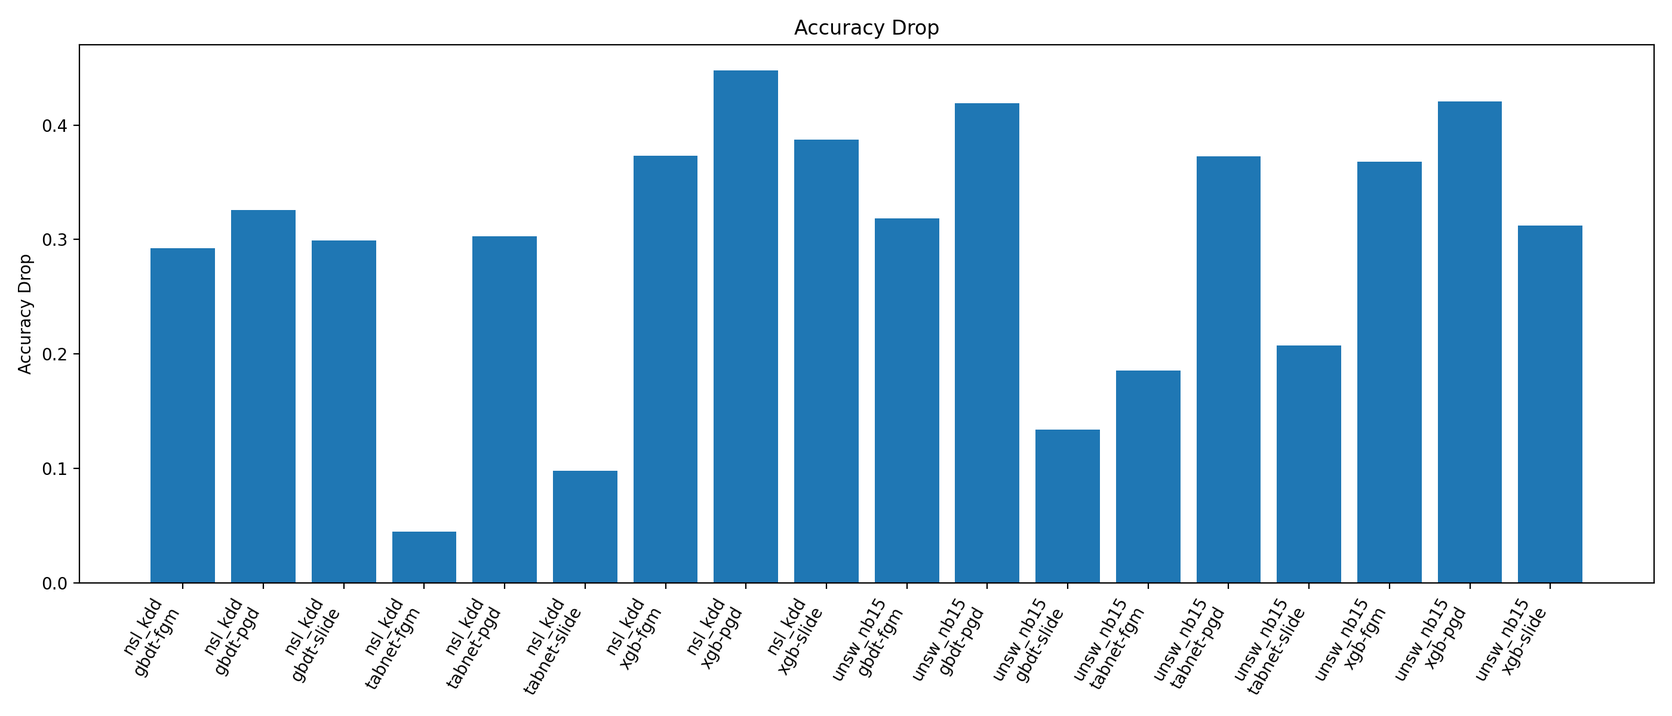
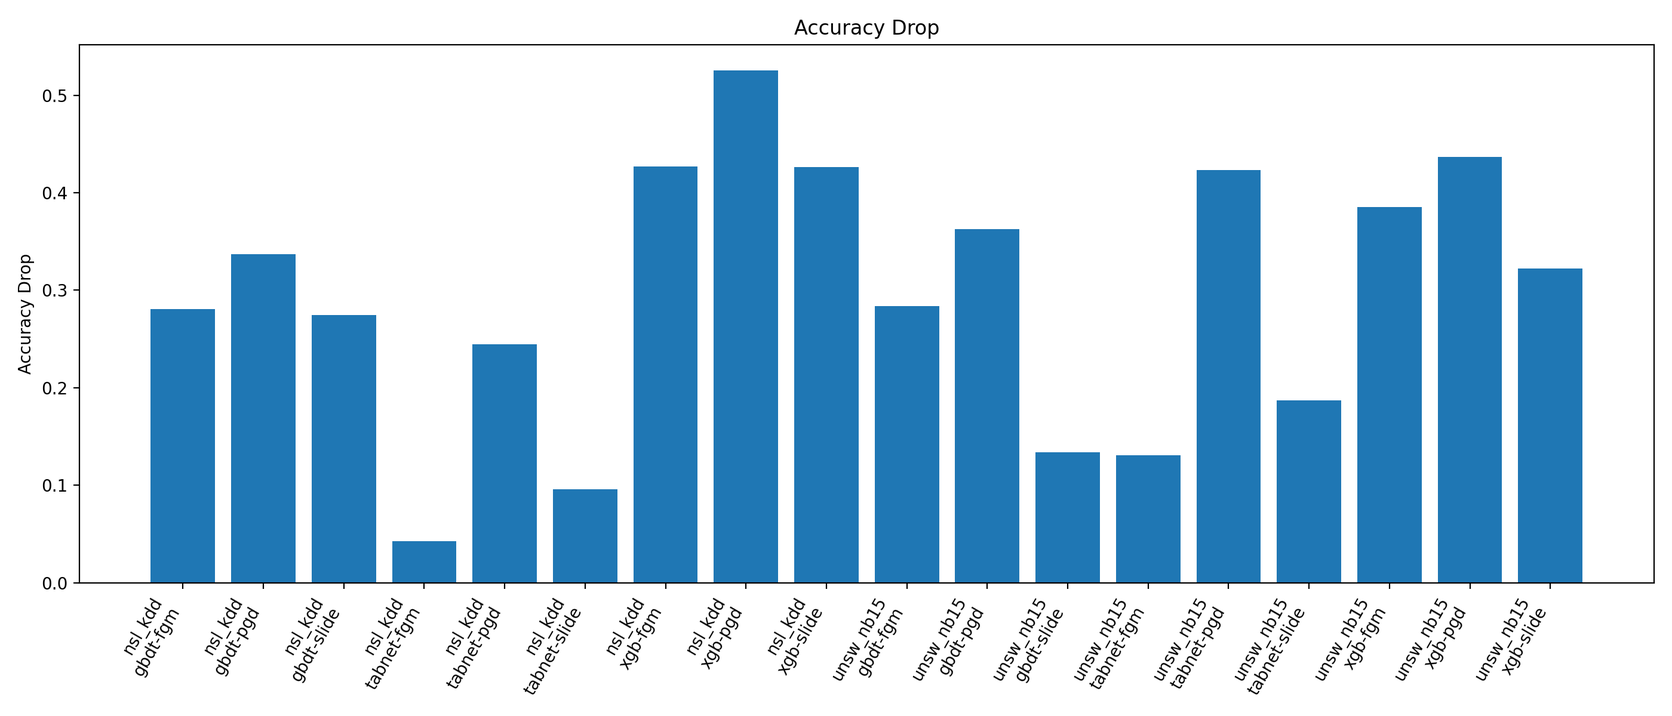
更新

diff --git a/results/summary/all_transfer_matrix.md b/results/summary/all_transfer_matrix.md
@@ -1,20 +1,20 @@
 | dataset   | target_model   | attack   |   num_samples |   num_clean_correct |   clean_accuracy |   adversarial_accuracy |   accuracy_drop |   clean_macro_f1 |   adversarial_macro_f1 |   macro_f1_drop |   transfer_success_rate |   transfer_success_count |   legacy_misclassification_rate |   legacy_misclassification_count |   mean_l2_perturbation |   median_l2_perturbation |   max_l2_perturbation |   mean_linf_perturbation |   max_linf_perturbation |   l2_q0.99 |   linf_q0.99 |   l2_q0.999 |   linf_q0.999 |   num_linf_gt_1 |   num_l2_gt_5 | metric_file                                  |
 |:----------|:---------------|:---------|--------------:|--------------------:|-----------------:|-----------------------:|----------------:|-----------------:|-----------------------:|----------------:|------------------------:|-------------------------:|--------------------------------:|---------------------------------:|-----------------------:|-------------------------:|----------------------:|-------------------------:|------------------------:|-----------:|-------------:|------------:|--------------:|----------------:|--------------:|:---------------------------------------------|
-| nsl_kdd   | gbdt           | fgm      |          3382 |                3336 |         0.986399 |               0.693968 |       0.292431  |         0.966805 |               0.526988 |        0.439817 |               0.298261  |                      995 |                       0.306032  |                             1035 |               0.390942 |                 0.387267 |               82.7173 |                 0.18835  |                 82.2645 |   0.435048 |     0.236967 |    0.451131 |      0.350213 |               1 |             1 | transfer_fgm_nsl_kdd_gbdt_metrics.json       |
-| nsl_kdd   | gbdt           | pgd      |          3382 |                3336 |         0.986399 |               0.660556 |       0.325843  |         0.966805 |               0.514204 |        0.452601 |               0.333333  |                     1112 |                       0.339444  |                             1148 |               0.753279 |                 0.761431 |               82.7164 |                 0.361946 |                 82.2645 |   0.862316 |     0.497257 |    0.891039 |      0.5      |               1 |             1 | transfer_pgd_nsl_kdd_gbdt_metrics.json       |
-| nsl_kdd   | gbdt           | slide    |          3382 |                3336 |         0.986399 |               0.687167 |       0.299231  |         0.966805 |               0.551468 |        0.415338 |               0.306655  |                     1023 |                       0.312833  |                             1058 |               0.520443 |                 0.496879 |               82.7163 |                 0.253478 |                 82.2645 |   0.498659 |     0.322975 |    0.499039 |      0.407964 |               1 |             1 | transfer_slide_nsl_kdd_gbdt_metrics.json     |
-| nsl_kdd   | tabnet         | fgm      |          3382 |                3298 |         0.975163 |               0.930514 |       0.0446481 |         0.953497 |               0.844231 |        0.109265 |               0.0460885 |                      152 |                       0.0694855 |                              235 |               0.392394 |                 0.375273 |               82.7172 |                 0.177333 |                 82.2645 |   0.445695 |     0.228557 |    0.461727 |      0.231415 |               1 |             1 | transfer_fgm_nsl_kdd_tabnet_metrics.json     |
-| nsl_kdd   | tabnet         | pgd      |          3382 |                3298 |         0.975163 |               0.672383 |       0.302779  |         0.953497 |               0.557253 |        0.396243 |               0.317465  |                     1047 |                       0.327617  |                             1108 |               0.756483 |                 0.74058  |               82.7194 |                 0.348224 |                 82.2645 |   0.8921   |     0.458724 |    0.907596 |      0.462821 |               1 |             1 | transfer_pgd_nsl_kdd_tabnet_metrics.json     |
-| nsl_kdd   | tabnet         | slide    |          3382 |                3298 |         0.975163 |               0.877292 |       0.0978711 |         0.953497 |               0.77397  |        0.179527 |               0.10188   |                      336 |                       0.122708  |                              415 |               0.520522 |                 0.496322 |               82.7163 |                 0.247774 |                 82.2645 |   0.498909 |     0.313512 |    0.499408 |      0.345496 |               1 |             1 | transfer_slide_nsl_kdd_tabnet_metrics.json   |
-| nsl_kdd   | xgb            | fgm      |          3382 |                3336 |         0.986399 |               0.612951 |       0.373448  |         0.969814 |               0.413843 |        0.555971 |               0.380396  |                     1269 |                       0.387049  |                             1309 |               0.376715 |                 0.364777 |               82.7174 |                 0.18155  |                 82.2645 |   0.448643 |     0.274453 |    0.455236 |      0.328083 |               1 |             1 | transfer_fgm_nsl_kdd_xgb_metrics.json        |
-| nsl_kdd   | xgb            | pgd      |          3382 |                3336 |         0.986399 |               0.538439 |       0.44796   |         0.969814 |               0.378019 |        0.591795 |               0.457134  |                     1525 |                       0.461561  |                             1561 |               0.719632 |                 0.719928 |               82.7209 |                 0.342145 |                 82.2645 |   0.897036 |     0.5      |    0.900088 |      0.5      |               1 |             1 | transfer_pgd_nsl_kdd_xgb_metrics.json        |
-| nsl_kdd   | xgb            | slide    |          3382 |                3336 |         0.986399 |               0.599349 |       0.387049  |         0.969814 |               0.425494 |        0.54432  |               0.396283  |                     1322 |                       0.400651  |                             1355 |               0.519815 |                 0.495846 |               82.7163 |                 0.250796 |                 82.2645 |   0.499194 |     0.329491 |    0.499437 |      0.40335  |               1 |             1 | transfer_slide_nsl_kdd_xgb_metrics.json      |
-| unsw_nb15 | gbdt           | fgm      |        175341 |              132182 |         0.753857 |               0.43546  |       0.318397  |         0.494157 |               0.201594 |        0.292563 |               0.457521  |                    60476 |                       0.56454   |                            98987 |               0.388031 |                 0.378022 |              553.749  |                 0.153104 |                553.749  |   0.462712 |     0.189096 |    0.480871 |      0.203693 |             130 |            80 | transfer_fgm_unsw_nb15_gbdt_metrics.json     |
-| unsw_nb15 | gbdt           | pgd      |        175341 |              132182 |         0.753857 |               0.334867 |       0.418989  |         0.494157 |               0.173475 |        0.320681 |               0.570274  |                    75380 |                       0.665133  |                           116625 |               0.785063 |                 0.790267 |              553.749  |                 0.262828 |                553.749  |   0.920111 |     0.345398 |    0.942068 |      0.406496 |             130 |            80 | transfer_pgd_unsw_nb15_gbdt_metrics.json     |
-| unsw_nb15 | gbdt           | slide    |        175341 |              132182 |         0.753857 |               0.619844 |       0.134013  |         0.494157 |               0.309217 |        0.18494  |               0.226544  |                    29945 |                       0.380156  |                            66657 |               0.5162   |                 0.498164 |              553.749  |                 0.185121 |                553.749  |   0.499639 |     0.256013 |    0.502731 |      0.349666 |             130 |            80 | transfer_slide_unsw_nb15_gbdt_metrics.json   |
-| unsw_nb15 | tabnet         | fgm      |        175341 |              131841 |         0.751912 |               0.566485 |       0.185427  |         0.42677  |               0.261099 |        0.16567  |               0.25756   |                    33957 |                       0.433515  |                            76013 |               0.406388 |                 0.410652 |              553.749  |                 0.13826  |                553.749  |   0.454654 |     0.165246 |    0.478494 |      0.205124 |             130 |            80 | transfer_fgm_unsw_nb15_tabnet_metrics.json   |
-| unsw_nb15 | tabnet         | pgd      |        175341 |              131841 |         0.751912 |               0.379158 |       0.372754  |         0.42677  |               0.156192 |        0.270577 |               0.516933  |                    68153 |                       0.620842  |                           108859 |               0.80767  |                 0.827359 |              553.749  |                 0.247721 |                553.749  |   0.9053   |     0.324131 |    0.939409 |      0.373565 |             130 |            80 | transfer_pgd_unsw_nb15_tabnet_metrics.json   |
-| unsw_nb15 | tabnet         | slide    |        175341 |              131841 |         0.751912 |               0.544613 |       0.207299  |         0.42677  |               0.27646  |        0.15031  |               0.306111  |                    40358 |                       0.455387  |                            79848 |               0.516708 |                 0.498336 |              553.749  |                 0.170786 |                553.749  |   0.499921 |     0.209214 |    0.503563 |      0.349725 |             130 |            80 | transfer_slide_unsw_nb15_tabnet_metrics.json |
-| unsw_nb15 | xgb            | fgm      |        175341 |              134175 |         0.765223 |               0.397266 |       0.367957  |         0.518838 |               0.156404 |        0.362434 |               0.499661  |                    67042 |                       0.602734  |                           105684 |               0.39376  |                 0.408246 |              553.749  |                 0.127544 |                553.749  |   0.467345 |     0.16618  |    0.485916 |      0.216044 |             130 |            80 | transfer_fgm_unsw_nb15_xgb_metrics.json      |
-| unsw_nb15 | xgb            | pgd      |        175341 |              134175 |         0.765223 |               0.34454  |       0.420683  |         0.518838 |               0.130823 |        0.388015 |               0.558666  |                    74959 |                       0.65546   |                           114929 |               0.822766 |                 0.878833 |              553.749  |                 0.229107 |                553.749  |   0.931716 |     0.301708 |    0.954742 |      0.369851 |             130 |            80 | transfer_pgd_unsw_nb15_xgb_metrics.json      |
-| unsw_nb15 | xgb            | slide    |        175341 |              134175 |         0.765223 |               0.453123 |       0.3121    |         0.518838 |               0.188941 |        0.329898 |               0.455644  |                    61136 |                       0.546877  |                            95890 |               0.51565  |                 0.499187 |              553.749  |                 0.158937 |                553.749  |   0.499732 |     0.231171 |    0.505239 |      0.333761 |             130 |            80 | transfer_slide_unsw_nb15_xgb_metrics.json    |
+| nsl_kdd   | gbdt           | fgm      |          3382 |                3336 |         0.986399 |               0.705795 |       0.280603  |         0.966805 |               0.613531 |       0.353274  |                0.286271 |                      955 |                       0.294205  |                              995 |               0.400783 |                 0.391711 |               82.7173 |                 0.199974 |                 82.2645 |   0.441887 |     0.282848 |    0.450933 |      0.356605 |               1 |             1 | transfer_fgm_nsl_kdd_gbdt_metrics.json       |
+| nsl_kdd   | gbdt           | pgd      |          3382 |                3336 |         0.986399 |               0.64932  |       0.337079  |         0.966805 |               0.578269 |       0.388537  |                0.344424 |                     1149 |                       0.35068   |                             1186 |               0.771772 |                 0.769387 |               82.7164 |                 0.370273 |                 82.2645 |   0.869721 |     0.5      |    0.884407 |      0.5      |               1 |             1 | transfer_pgd_nsl_kdd_gbdt_metrics.json       |
+| nsl_kdd   | gbdt           | slide    |          3382 |                3336 |         0.986399 |               0.711709 |       0.27469   |         0.966805 |               0.633338 |       0.333468  |                0.281175 |                      938 |                       0.288291  |                              975 |               0.520687 |                 0.496904 |               82.7163 |                 0.254862 |                 82.2645 |   0.498529 |     0.334221 |    0.498881 |      0.412686 |               1 |             1 | transfer_slide_nsl_kdd_gbdt_metrics.json     |
+| nsl_kdd   | tabnet         | fgm      |          3382 |                3298 |         0.975163 |               0.932584 |       0.0425784 |         0.953497 |               0.876499 |       0.0769971 |                0.043966 |                      145 |                       0.0674157 |                              228 |               0.40279  |                 0.387368 |               82.7174 |                 0.18342  |                 82.2645 |   0.445428 |     0.226856 |    0.467145 |      0.23837  |               1 |             1 | transfer_fgm_nsl_kdd_tabnet_metrics.json     |
+| nsl_kdd   | tabnet         | pgd      |          3382 |                3298 |         0.975163 |               0.730633 |       0.24453   |         0.953497 |               0.585195 |       0.368302  |                0.251061 |                      828 |                       0.269367  |                              911 |               0.77644  |                 0.768409 |               82.7204 |                 0.35451  |                 82.2645 |   0.88893  |     0.435616 |    0.90073  |      0.447271 |               1 |             1 | transfer_pgd_nsl_kdd_tabnet_metrics.json     |
+| nsl_kdd   | tabnet         | slide    |          3382 |                3298 |         0.975163 |               0.879066 |       0.096097  |         0.953497 |               0.804568 |       0.148929  |                0.100364 |                      331 |                       0.120934  |                              409 |               0.520737 |                 0.496657 |               82.7163 |                 0.242304 |                 82.2645 |   0.498758 |     0.296606 |    0.499245 |      0.337985 |               1 |             1 | transfer_slide_nsl_kdd_tabnet_metrics.json   |
+| nsl_kdd   | xgb            | fgm      |          3382 |                3336 |         0.986399 |               0.559432 |       0.426966  |         0.969814 |               0.394598 |       0.575216  |                0.436451 |                     1456 |                       0.440568  |                             1490 |               0.390998 |                 0.39646  |               82.7175 |                 0.200378 |                 82.2645 |   0.456198 |     0.277172 |    0.46165  |      0.351052 |               1 |             1 | transfer_fgm_nsl_kdd_xgb_metrics.json        |
+| nsl_kdd   | xgb            | pgd      |          3382 |                3336 |         0.986399 |               0.460674 |       0.525724  |         0.969814 |               0.313747 |       0.656067  |                0.533873 |                     1781 |                       0.539326  |                             1824 |               0.749088 |                 0.785155 |               82.7213 |                 0.374482 |                 82.2645 |   0.897926 |     0.5      |    0.922729 |      0.5      |               1 |             1 | transfer_pgd_nsl_kdd_xgb_metrics.json        |
+| nsl_kdd   | xgb            | slide    |          3382 |                3336 |         0.986399 |               0.560319 |       0.426079  |         0.969814 |               0.398958 |       0.570856  |                0.435851 |                     1454 |                       0.439681  |                             1487 |               0.520017 |                 0.496653 |               82.7163 |                 0.263585 |                 82.2645 |   0.499319 |     0.330766 |    0.49961  |      0.415117 |               1 |             1 | transfer_slide_nsl_kdd_xgb_metrics.json      |
+| unsw_nb15 | gbdt           | fgm      |        175341 |              132182 |         0.753857 |               0.470078 |       0.283778  |         0.494157 |               0.224864 |       0.269292  |                0.439576 |                    58104 |                       0.529922  |                            92917 |               0.412186 |                 0.410557 |              553.749  |                 0.154378 |                553.749  |   0.458027 |     0.187986 |    0.468996 |      0.213279 |             130 |            80 | transfer_fgm_unsw_nb15_gbdt_metrics.json     |
+| unsw_nb15 | gbdt           | pgd      |        175341 |              132182 |         0.753857 |               0.391386 |       0.362471  |         0.494157 |               0.183827 |       0.31033   |                0.542124 |                    71659 |                       0.608614  |                           106715 |               0.816848 |                 0.836532 |              553.749  |                 0.261491 |                553.749  |   0.908953 |     0.336823 |    0.927077 |      0.416118 |             130 |            80 | transfer_pgd_unsw_nb15_gbdt_metrics.json     |
+| unsw_nb15 | gbdt           | slide    |        175341 |              132182 |         0.753857 |               0.619861 |       0.133996  |         0.494157 |               0.306291 |       0.187865  |                0.224161 |                    29630 |                       0.380139  |                            66654 |               0.518486 |                 0.498476 |              553.749  |                 0.180354 |                553.749  |   0.499497 |     0.245658 |    0.501396 |      0.309134 |             130 |            80 | transfer_slide_unsw_nb15_gbdt_metrics.json   |
+| unsw_nb15 | tabnet         | fgm      |        175341 |              131841 |         0.751912 |               0.621441 |       0.130471  |         0.42677  |               0.288122 |       0.138648  |                0.178412 |                    23522 |                       0.378559  |                            66377 |               0.411274 |                 0.41913  |              553.749  |                 0.154755 |                553.749  |   0.457524 |     0.200692 |    0.462153 |      0.206501 |             130 |            80 | transfer_fgm_unsw_nb15_tabnet_metrics.json   |
+| unsw_nb15 | tabnet         | pgd      |        175341 |              131841 |         0.751912 |               0.328605 |       0.423307  |         0.42677  |               0.120764 |       0.306006  |                0.576414 |                    75995 |                       0.671395  |                           117723 |               0.799575 |                 0.822608 |              553.749  |                 0.262656 |                553.749  |   0.882426 |     0.40646  |    0.919938 |      0.41838  |             130 |            80 | transfer_pgd_unsw_nb15_tabnet_metrics.json   |
+| unsw_nb15 | tabnet         | slide    |        175341 |              131841 |         0.751912 |               0.565048 |       0.186864  |         0.42677  |               0.266101 |       0.160669  |                0.261762 |                    34511 |                       0.434952  |                            76265 |               0.51643  |                 0.497928 |              553.749  |                 0.17809  |                553.749  |   0.499529 |     0.244931 |    0.503742 |      0.326826 |             130 |            80 | transfer_slide_unsw_nb15_tabnet_metrics.json |
+| unsw_nb15 | xgb            | fgm      |        175341 |              134175 |         0.765223 |               0.379837 |       0.385386  |         0.518838 |               0.145127 |       0.373711  |                0.527505 |                    70778 |                       0.620163  |                           108740 |               0.414649 |                 0.424231 |              553.749  |                 0.138961 |                553.749  |   0.479529 |     0.193397 |    0.481789 |      0.228005 |             130 |            80 | transfer_fgm_unsw_nb15_xgb_metrics.json      |
+| unsw_nb15 | xgb            | pgd      |        175341 |              134175 |         0.765223 |               0.32848  |       0.436743  |         0.518838 |               0.11735  |       0.401488  |                0.580347 |                    77868 |                       0.67152   |                           117745 |               0.831116 |                 0.875149 |              553.749  |                 0.236988 |                553.749  |   0.939193 |     0.337533 |    0.95034  |      0.4145   |             130 |            80 | transfer_pgd_unsw_nb15_xgb_metrics.json      |
+| unsw_nb15 | xgb            | slide    |        175341 |              134175 |         0.765223 |               0.442886 |       0.322338  |         0.518838 |               0.182288 |       0.33655   |                0.468634 |                    62879 |                       0.557114  |                            97685 |               0.51657  |                 0.498852 |              553.749  |                 0.164558 |                553.749  |   0.499739 |     0.233446 |    0.501735 |      0.325692 |             130 |            80 | transfer_slide_unsw_nb15_xgb_metrics.json    |

diff --git a/results/summary/result_summary.md b/results/summary/result_summary.md
@@ -2,29 +2,29 @@
 
 ## Overall conclusion
 
-- Best result: `unsw_nb15 / gbdt / pgd`, transfer_success_rate = `0.5703`.
+- Best result: `unsw_nb15 / xgb / pgd`, transfer_success_rate = `0.5803`.
 
 ## Best attack per dataset
 
-- `unsw_nb15`: `gbdt / pgd` = `0.5703`
-- `nsl_kdd`: `xgb / pgd` = `0.4571`
+- `unsw_nb15`: `xgb / pgd` = `0.5803`
+- `nsl_kdd`: `xgb / pgd` = `0.5339`
 
 ## Best attack per target model
 
-- `unsw_nb15 / gbdt`: `pgd`, transfer = `0.5703`, accuracy_drop = `0.4190`, macro_f1_drop = `0.3207`
-- `unsw_nb15 / xgb`: `pgd`, transfer = `0.5587`, accuracy_drop = `0.4207`, macro_f1_drop = `0.3880`
-- `unsw_nb15 / tabnet`: `pgd`, transfer = `0.5169`, accuracy_drop = `0.3728`, macro_f1_drop = `0.2706`
-- `nsl_kdd / xgb`: `pgd`, transfer = `0.4571`, accuracy_drop = `0.4480`, macro_f1_drop = `0.5918`
-- `nsl_kdd / gbdt`: `pgd`, transfer = `0.3333`, accuracy_drop = `0.3258`, macro_f1_drop = `0.4526`
-- `nsl_kdd / tabnet`: `pgd`, transfer = `0.3175`, accuracy_drop = `0.3028`, macro_f1_drop = `0.3962`
+- `unsw_nb15 / xgb`: `pgd`, transfer = `0.5803`, accuracy_drop = `0.4367`, macro_f1_drop = `0.4015`
+- `unsw_nb15 / tabnet`: `pgd`, transfer = `0.5764`, accuracy_drop = `0.4233`, macro_f1_drop = `0.3060`
+- `unsw_nb15 / gbdt`: `pgd`, transfer = `0.5421`, accuracy_drop = `0.3625`, macro_f1_drop = `0.3103`
+- `nsl_kdd / xgb`: `pgd`, transfer = `0.5339`, accuracy_drop = `0.5257`, macro_f1_drop = `0.6561`
+- `nsl_kdd / gbdt`: `pgd`, transfer = `0.3444`, accuracy_drop = `0.3371`, macro_f1_drop = `0.3885`
+- `nsl_kdd / tabnet`: `pgd`, transfer = `0.2511`, accuracy_drop = `0.2445`, macro_f1_drop = `0.3683`
 
 ## Attack average ranking
 
 | attack   |   transfer_success_rate |
 |:---------|------------------------:|
-| pgd      |                0.458968 |
-| fgm      |                0.323248 |
-| slide    |                0.298853 |
+| pgd      |                0.471374 |
+| fgm      |                0.318697 |
+| slide    |                0.295325 |
 
 ## Perturbation anomaly check
 
@@ -32,24 +32,24 @@
 
 | dataset   | target_model   | attack   |   max_l2_perturbation |   max_linf_perturbation |   l2_q0.999 |   linf_q0.999 |   num_linf_gt_1 |   num_l2_gt_5 |
 |:----------|:---------------|:---------|----------------------:|------------------------:|------------:|--------------:|----------------:|--------------:|
-| nsl_kdd   | gbdt           | fgm      |               82.7173 |                 82.2645 |    0.451131 |      0.350213 |               1 |             1 |
-| nsl_kdd   | gbdt           | pgd      |               82.7164 |                 82.2645 |    0.891039 |      0.5      |               1 |             1 |
-| nsl_kdd   | gbdt           | slide    |               82.7163 |                 82.2645 |    0.499039 |      0.407964 |               1 |             1 |
-| nsl_kdd   | tabnet         | fgm      |               82.7172 |                 82.2645 |    0.461727 |      0.231415 |               1 |             1 |
-| nsl_kdd   | tabnet         | pgd      |               82.7194 |                 82.2645 |    0.907596 |      0.462821 |               1 |             1 |
-| nsl_kdd   | tabnet         | slide    |               82.7163 |                 82.2645 |    0.499408 |      0.345496 |               1 |             1 |
-| nsl_kdd   | xgb            | fgm      |               82.7174 |                 82.2645 |    0.455236 |      0.328083 |               1 |             1 |
-| nsl_kdd   | xgb            | pgd      |               82.7209 |                 82.2645 |    0.900088 |      0.5      |               1 |             1 |
-| nsl_kdd   | xgb            | slide    |               82.7163 |                 82.2645 |    0.499437 |      0.40335  |               1 |             1 |
-| unsw_nb15 | gbdt           | fgm      |              553.749  |                553.749  |    0.480871 |      0.203693 |             130 |            80 |
-| unsw_nb15 | gbdt           | pgd      |              553.749  |                553.749  |    0.942068 |      0.406496 |             130 |            80 |
-| unsw_nb15 | gbdt           | slide    |              553.749  |                553.749  |    0.502731 |      0.349666 |             130 |            80 |
-| unsw_nb15 | tabnet         | fgm      |              553.749  |                553.749  |    0.478494 |      0.205124 |             130 |            80 |
-| unsw_nb15 | tabnet         | pgd      |              553.749  |                553.749  |    0.939409 |      0.373565 |             130 |            80 |
-| unsw_nb15 | tabnet         | slide    |              553.749  |                553.749  |    0.503563 |      0.349725 |             130 |            80 |
-| unsw_nb15 | xgb            | fgm      |              553.749  |                553.749  |    0.485916 |      0.216044 |             130 |            80 |
-| unsw_nb15 | xgb            | pgd      |              553.749  |                553.749  |    0.954742 |      0.369851 |             130 |            80 |
-| unsw_nb15 | xgb            | slide    |              553.749  |                553.749  |    0.505239 |      0.333761 |             130 |            80 |
+| nsl_kdd   | gbdt           | fgm      |               82.7173 |                 82.2645 |    0.450933 |      0.356605 |               1 |             1 |
+| nsl_kdd   | gbdt           | pgd      |               82.7164 |                 82.2645 |    0.884407 |      0.5      |               1 |             1 |
+| nsl_kdd   | gbdt           | slide    |               82.7163 |                 82.2645 |    0.498881 |      0.412686 |               1 |             1 |
+| nsl_kdd   | tabnet         | fgm      |               82.7174 |                 82.2645 |    0.467145 |      0.23837  |               1 |             1 |
+| nsl_kdd   | tabnet         | pgd      |               82.7204 |                 82.2645 |    0.90073  |      0.447271 |               1 |             1 |
+| nsl_kdd   | tabnet         | slide    |               82.7163 |                 82.2645 |    0.499245 |      0.337985 |               1 |             1 |
+| nsl_kdd   | xgb            | fgm      |               82.7175 |                 82.2645 |    0.46165  |      0.351052 |               1 |             1 |
+| nsl_kdd   | xgb            | pgd      |               82.7213 |                 82.2645 |    0.922729 |      0.5      |               1 |             1 |
+| nsl_kdd   | xgb            | slide    |               82.7163 |                 82.2645 |    0.49961  |      0.415117 |               1 |             1 |
+| unsw_nb15 | gbdt           | fgm      |              553.749  |                553.749  |    0.468996 |      0.213279 |             130 |            80 |
+| unsw_nb15 | gbdt           | pgd      |              553.749  |                553.749  |    0.927077 |      0.416118 |             130 |            80 |
+| unsw_nb15 | gbdt           | slide    |              553.749  |                553.749  |    0.501396 |      0.309134 |             130 |            80 |
+| unsw_nb15 | tabnet         | fgm      |              553.749  |                553.749  |    0.462153 |      0.206501 |             130 |            80 |
+| unsw_nb15 | tabnet         | pgd      |              553.749  |                553.749  |    0.919938 |      0.41838  |             130 |            80 |
+| unsw_nb15 | tabnet         | slide    |              553.749  |                553.749  |    0.503742 |      0.326826 |             130 |            80 |
+| unsw_nb15 | xgb            | fgm      |              553.749  |                553.749  |    0.481789 |      0.228005 |             130 |            80 |
+| unsw_nb15 | xgb            | pgd      |              553.749  |                553.749  |    0.95034  |      0.4145   |             130 |            80 |
+| unsw_nb15 | xgb            | slide    |              553.749  |                553.749  |    0.501735 |      0.325692 |             130 |            80 |
 
 ## Suggested report wording
 
